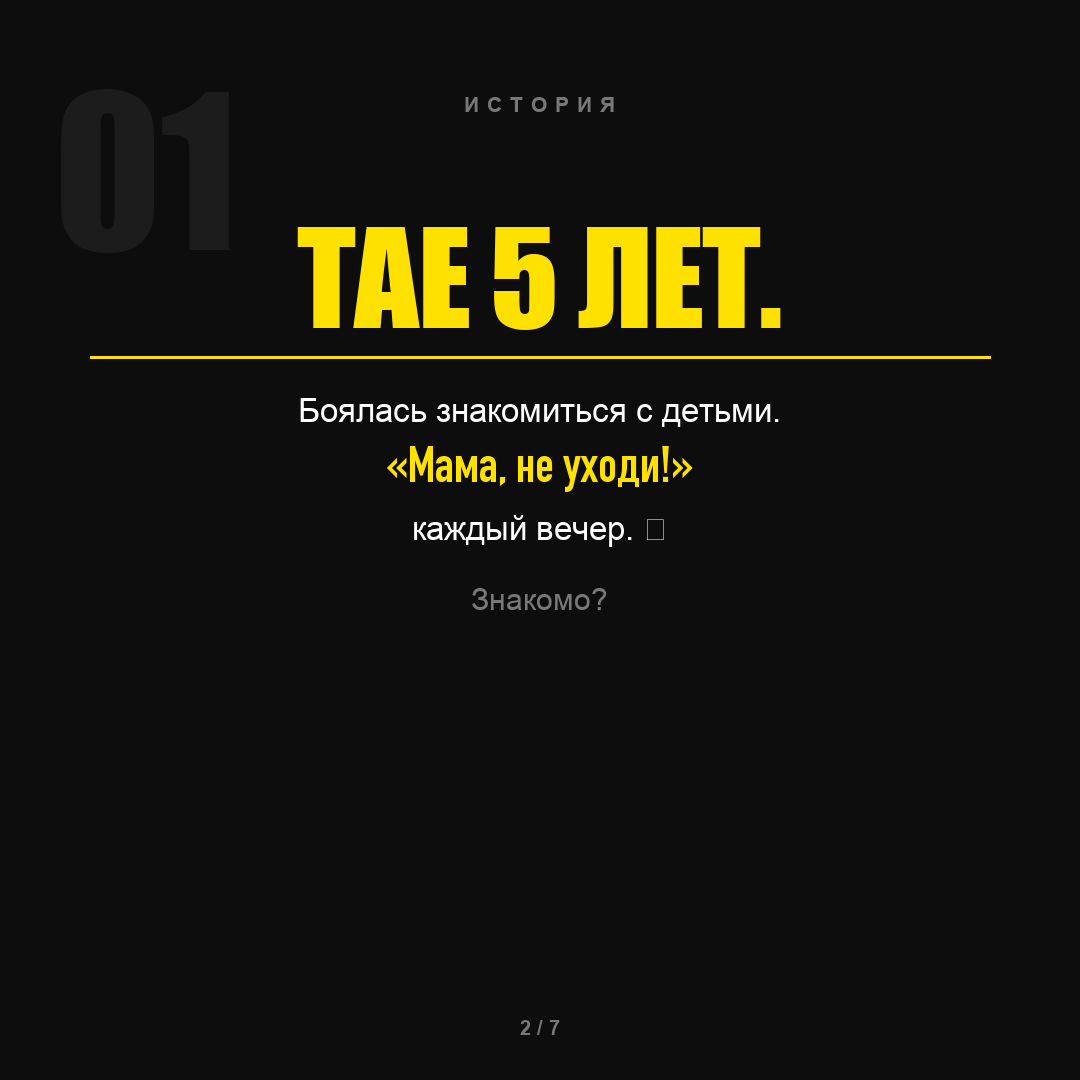
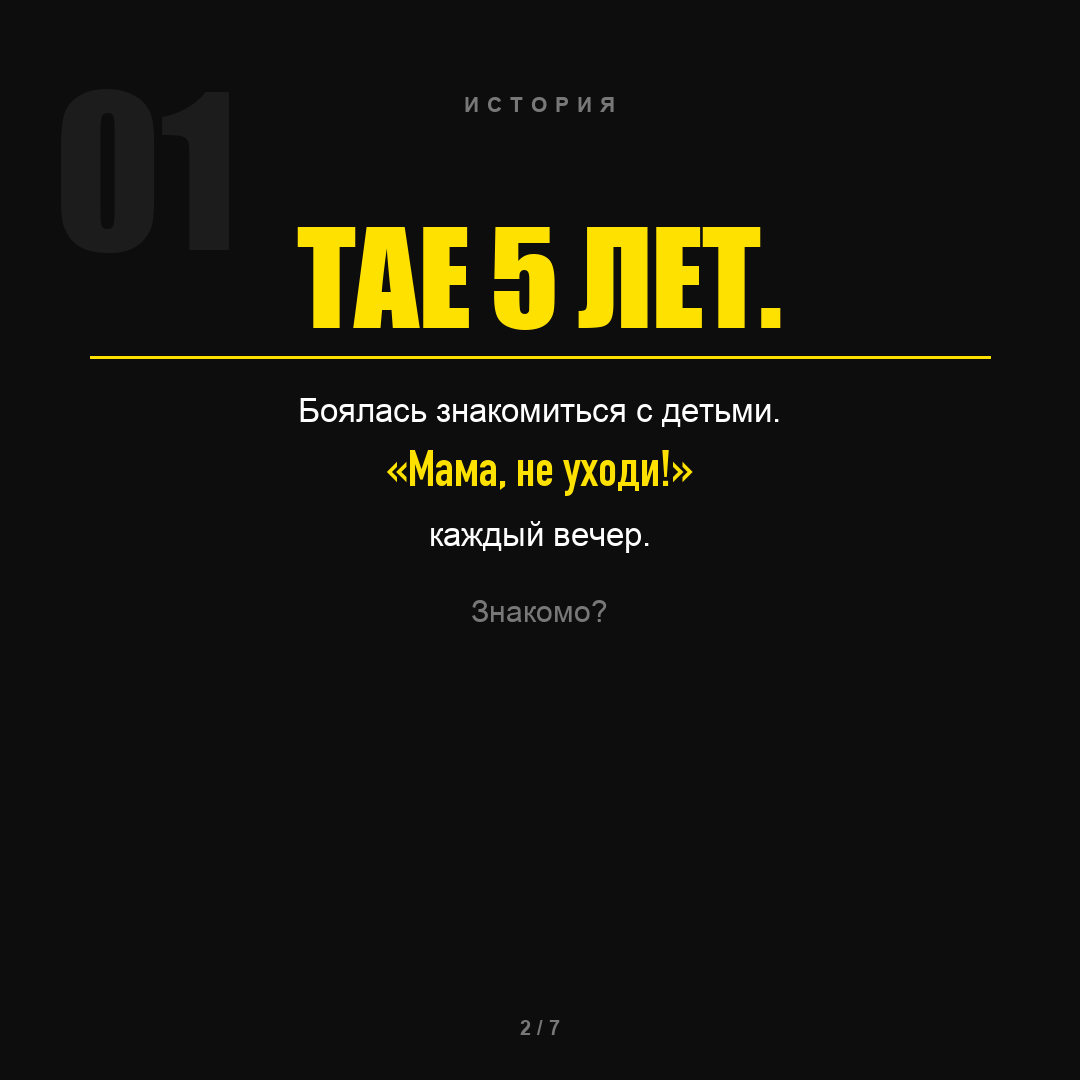
auto-sync 2026-05-23 11:04

Changed region(s): [[0.3667, 0.3972, 0.6417, 0.5194], [0.4278, 0.55, 0.5806, 0.5806]]

diff --git a/marketing/cards/generate_cards.py b/marketing/cards/generate_cards.py
@@ -145,13 +145,13 @@ def card_02_problem():
     f_body = font(FONT_ARIAL, 33)
     y = 392
     draw_text_centered(draw, "Боялась знакомиться с детьми.", y, f_body, WHITE)
-    y += 54
+    y += 58
     f_quote = font(FONT_DIN, 50)
     draw_text_centered(draw, "«Мама, не уходи!»", y, f_quote, YELLOW)
-    y += 64
-    draw_text_centered(draw, "каждый вечер. 🫠", y, f_body, WHITE)
+    y += 66
+    draw_text_centered(draw, "каждый вечер.", y, f_body, WHITE)
 
-    y += 72
+    y += 78
     f_ask = font(FONT_ARIAL, 30)
     draw_text_centered(draw, "Знакомо?", y, f_ask, DIM)
 
@@ -308,7 +308,7 @@ def card_06_result():
     y += 122
     draw_text_centered(draw, "БОЛЬШАЯ.»", y, f_quote, YELLOW, letter_spacing=-2)
 
-    y += 110
+    y += 128
     f_note = font(FONT_ARIAL, 26)
     draw_text_centered(draw, "Якорь из сказкотерапии. Работает.", y, f_note, (90, 90, 90))
 
